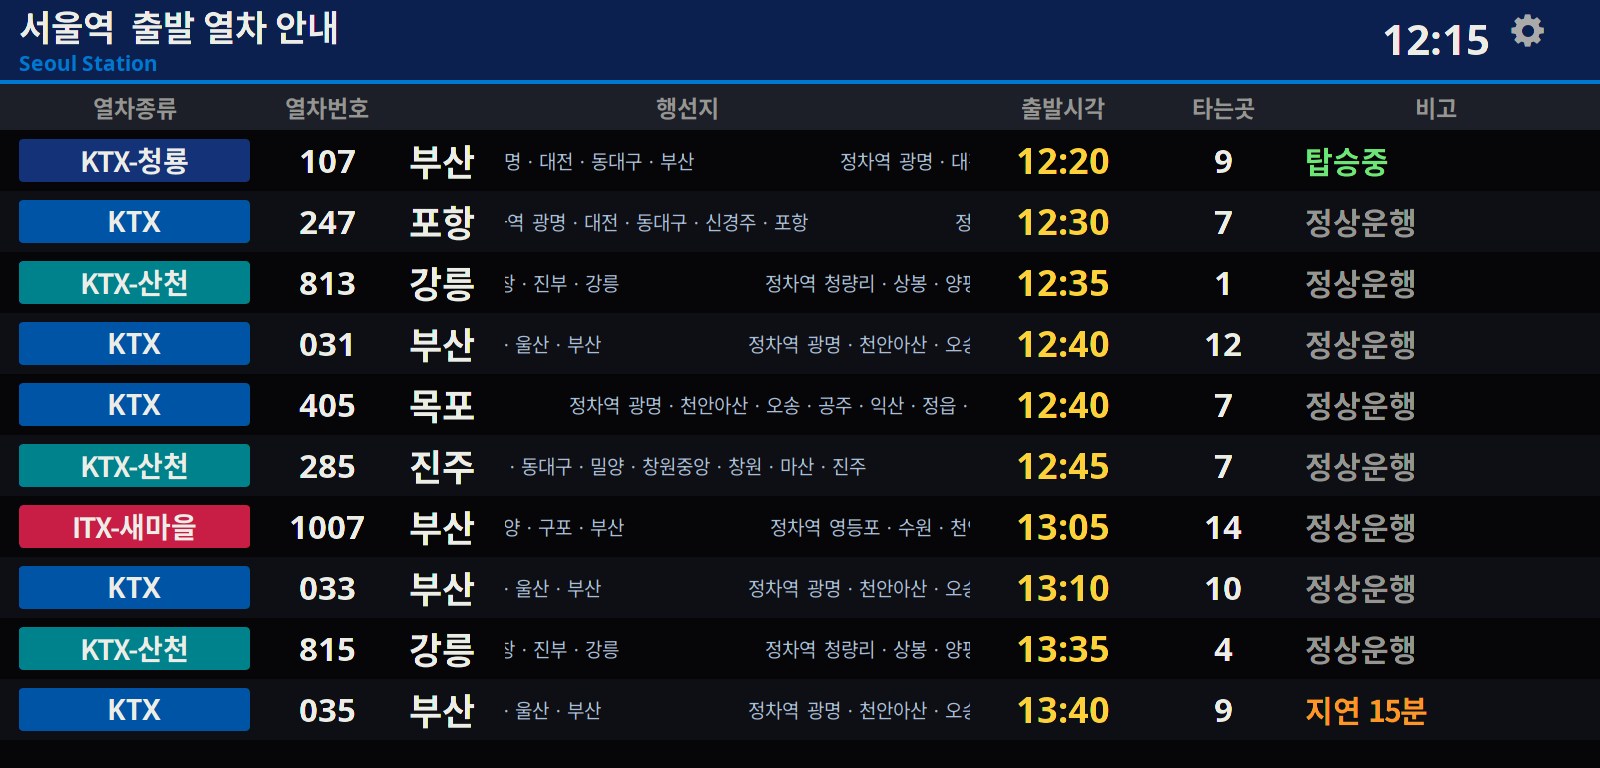
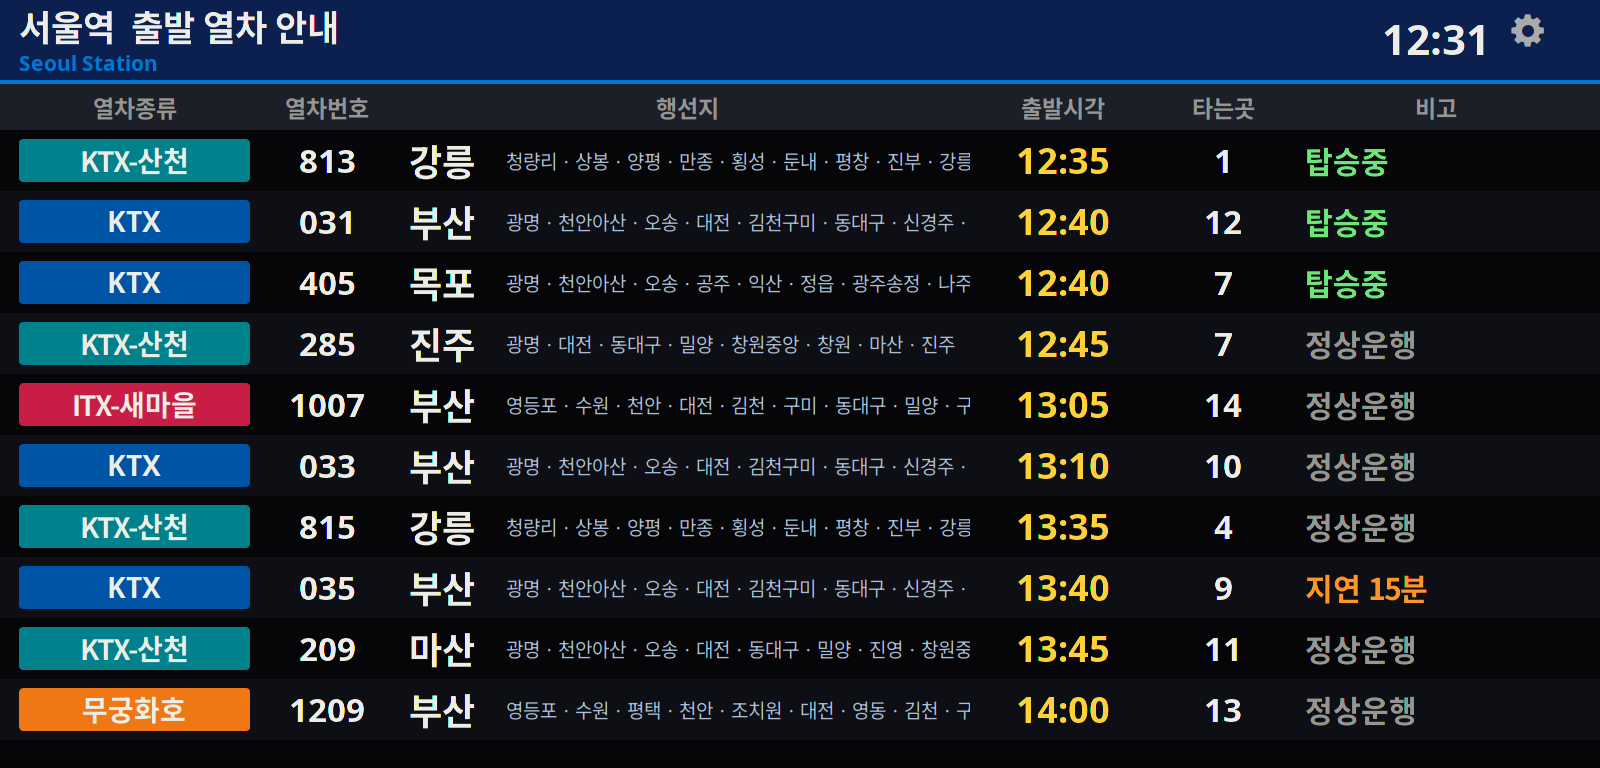
Seoul: the stops slide to their end and back, without a heading
A list longer than its strip rests, travels left until its last station
shows, rests and returns, starting together when the board appears; one
that fits stays put. No more 정차역/Stops at in front.

diff --git a/src/Board.cpp b/src/Board.cpp
@@ -179,6 +179,7 @@ BoardView::BoardView(BRect frame, int airport)
 	fStationKey(-1),
 	fStationMinute(-1),
 	fMarqueeCount(0),
+	fMarqueeStart(0),
 	fPhase(0),
 	fFixedPhase(-1),
 	fFooter(0),
@@ -1825,6 +1826,7 @@ BoardView::_DrawSeoul(int lang, int64 now)
 	v->SetHighColor(kLedBackground);
 	v->FillRect(bounds);
 	fMarqueeCount = 0;
+	fMarqueeStart = system_time();
 	_DrawStationHeader(kTitle[lang], lang == 0 ? "Seoul Station" : "서울역",
 		now, make_color(12, 32, 80),
 		make_color(0, 120, 210));
@@ -2540,8 +2542,9 @@ BoardView::_DrawSydney(int64 now)
 
 
 
-// The stopping stations of Seoul's trains, moving right to left, a little
-// further on every tick. Only these strips are redrawn.
+// The stopping stations of Seoul's trains. A list longer than its strip
+// travels left until its end shows, rests, and travels back; one that fits
+// stays put. Only these strips are redrawn.
 void
 BoardView::_DrawMarquees(bigtime_t now)
 {
@@ -2554,9 +2557,24 @@ BoardView::_DrawMarquees(bigtime_t now)
 	for (int i = 0; i < fMarqueeCount; i++) {
 		Marquee& marquee = fMarquees[i];
 		BRect area = marquee.area;
-		float gap = area.Height() * 4;
-		float span = marquee.width + gap;
-		float offset = fmodf((float)(now / 1000) * kSpeed / 1000, span);
+		float overflow = marquee.width - area.Width();
+		float offset = 0;
+		if (overflow > 0) {
+			// Out, rest, back, rest.
+			const float kRest = 1.5f;
+			float travel = overflow / kSpeed;
+			float cycle = 2 * (travel + kRest);
+			float t = fmodf((float)((now - fMarqueeStart) / 1000) / 1000,
+				cycle);
+			if (t < kRest)
+				offset = 0;
+			else if (t < kRest + travel)
+				offset = (t - kRest) * kSpeed;
+			else if (t < 2 * kRest + travel)
+				offset = overflow;
+			else
+				offset = overflow - (t - 2 * kRest - travel) * kSpeed;
+		}
 		BRegion clip(area);
 		v->ConstrainClippingRegion(&clip);
 		v->SetHighColor(marquee.background);
@@ -2572,8 +2590,7 @@ BoardView::_DrawMarquees(bigtime_t now)
 		v->SetFont(&font);
 		v->SetHighColor(170, 190, 215);
 		v->SetDrawingMode(B_OP_OVER);
-		for (float x = area.left - offset; x < area.right; x += span)
-			v->DrawString(marquee.text.String(), BPoint(x, y));
+		v->DrawString(marquee.text.String(), BPoint(area.left - offset, y));
 		v->SetDrawingMode(B_OP_COPY);
 		v->ConstrainClippingRegion(NULL);
 		dirty.Include(area);

diff --git a/src/Station.cpp b/src/Station.cpp
@@ -361,10 +361,8 @@ static const char* kKorailStations[][4] = {
 BString
 korail_stops(const KorailService& service, int lang)
 {
-	static const char* kLead[4] = { "정차역  ", "Stops at  ", "停車駅  ",
-		"停靠站  " };
 	static const char* kSeparator[4] = { " · ", " · ", "・", "・" };
-	BString out(kLead[lang]);
+	BString out;
 	const int known = sizeof(kKorailStations) / sizeof(kKorailStations[0]);
 	const char* s = service.stops;
 	bool first = true;

diff --git a/src/Board.h b/src/Board.h
@@ -154,6 +154,7 @@ private:
 			};
 			Marquee			fMarquees[12];
 			int				fMarqueeCount;
+			bigtime_t		fMarqueeStart;
 			int				fPhase;
 			int				fFixedPhase;
 			int				fFooter;

diff --git a/README.ko.md b/README.ko.md
@@ -81,7 +81,7 @@ LED/LCD 안내판처럼 발차 시각, 행선지, 노선 색상의 승강장 번
 코레일 출발 안내 화면입니다. 열차 종류(KTX, KTX-청룡, KTX-산천, ITX-새마을, 무궁화호)를
 그 색상으로, 열차번호, 행선지, 출발시각, 타는곳, 비고(정상운행, 탑승중, 탑승마감, 지연)를
 보여 주고, 한국어·영어·일본어·중국어로 번갈아 나옵니다. 행선지 뒤에는 그 열차의
-정차역이 작은 글씨로 흘러갑니다.
+정차역이 작은 글씨로 나오고, 칸보다 길면 끝까지 갔다가 되돌아옵니다.
 
 ![서울역](docs/seoul.png)
 ![서울역, 영어](docs/seoul-english.png)

diff --git a/README.md b/README.md
@@ -86,8 +86,9 @@ services, not live data.
 Korail's departure screen: the train type on its colour (KTX, KTX-Cheongryong,
 KTX-Sancheon, ITX-Saemaeul, Mugunghwa), train number, destination, departure
 time, platform and remarks (on time, boarding, closing, delayed), in Korean,
-English, Japanese and Chinese in turn. After each destination the stations the
-train stops at scroll past in small type.
+English, Japanese and Chinese in turn. After each destination, in small type, the
+stations the train stops at; a list too long for its space slides to its end
+and back.
 
 ![Seoul Station](docs/seoul.png)
 ![Seoul Station, in English](docs/seoul-english.png)
